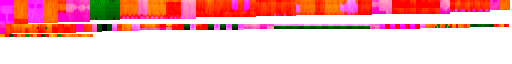
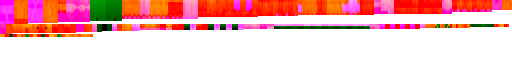
Reindeer antler planes: beam and palms drawn two texels thick, lighter tips, turned out 19 degrees as the deer's (the one-texel beam read wiry)

Changed region(s): [[0.1562, 0.0, 1.0, 0.3438]]

diff --git a/mods/animals/source/reindeer/reindeer.py b/mods/animals/source/reindeer/reindeer.py
@@ -157,46 +157,50 @@ ANTLER0 = (3.6, 71.4, 36.5)  # where the left antler's burr sits on the skull
 # on the beam; over the face the brow tine, on the left as the flat 'shovel', on the right a plain point
 # (most have one shovel). A texel is 2 units drawn (2 / K in the deer's space). The plane faces sideways,
 # turned out with the beam's sweep and leaning out as the beam did.
+# The beam and the palm two texels thick (Ronald, 11-05: one texel read wiry, a thin outline loop from
+# the side), the points and tines one or two.
 ANTLER_ART = {
-    "L": ["....#.#.#....",  # rows top down, columns back to front, in texels; B the burr (its lower row in the skull)
-          "....#.#.#....",
-          "...######....",
-          "...##........",
-          "..##.........",
-          ".##..........",
-          ".#...........",
-          ".#...........",
-          ".#...........",
-          ".##..........",
-          "..#..........",
-          "..#####......",  # the bez tine, forward off the beam
-          "..##.........",
-          "...##.....##.",  # the shovel over the face
-          "....##....##.",
-          ".....######..",  # the beam's root and the brow tine
-          ".......BB.##.",
-          ".......BB...."],
-    "R": ["....#.#.#....",
-          "....#.#.#....",
-          "...######....",
-          "...##........",
-          "..##.........",
-          ".##..........",
-          ".#...........",
-          ".#...........",
-          ".#...........",
-          ".##..........",
-          "..#..........",
-          "..#####......",
-          "..##.........",
-          "...##........",
-          "....##.......",
-          ".....#####...",  # the plain brow point
-          ".......BB....",
-          ".......BB...."]}
+    "L": ["....#..#..#...",  # rows top down, columns back to front, in texels; B the burr (its lower row in the skull)
+          "....#..#..#...",
+          "...#########..",  # the palm
+          "..##########..",
+          ".####.........",
+          ".###..........",
+          "###...........",
+          "##............",
+          "##............",
+          "##............",
+          "###...........",
+          ".###..........",
+          ".#######......",  # the bez tine, forward off the beam
+          "..###.........",
+          "...###....##..",  # the shovel over the face
+          "....###...##..",
+          ".....######...",  # the beam's root and the brow tine
+          ".......BB.##..",
+          ".......BB....."],
+    "R": ["....#..#..#...",
+          "....#..#..#...",
+          "...#########..",
+          "..##########..",
+          ".####.........",
+          ".###..........",
+          "###...........",
+          "##............",
+          "##............",
+          "##............",
+          "###...........",
+          ".###..........",
+          ".#######......",
+          "..###.........",
+          "...###........",
+          "....###.......",
+          ".....#####....",  # the plain brow point
+          ".......BB.....",
+          ".......BB....."]}
 ANTLER_T = 2.0 / K  # a texel, in the deer's space
 ANTLER_Y0, ANTLER_Z0 = -1.4, -14.3  # the drawing's bottom and back edge from the burr's pivot, in the deer's space
-ANTLER_TURN = (0, 15, -20)  # the left plane's turn (rx, ry, rz) about the pivot; the right's mirrored
+ANTLER_TURN = (0, 19, -20)  # the left plane's turn (rx, ry, rz) about the pivot; the right's mirrored
 
 
 def antler(side):
@@ -409,7 +413,7 @@ def antler_texels(e, p):
     rows, cols = len(art), len(art[0])
     get = lambda rr, cc: art[rr][cc] if 0 <= rr < rows and 0 <= cc < cols else "."  # noqa: E731
     k = np.array([[get(rr, cc) for rr, cc in zip(R_, C_)] for R_, C_ in zip(r, c)])
-    tip = np.array([[get(rr, cc) == "#" and get(rr - 1, cc) == "." and rr <= 2 for rr, cc in zip(R_, C_)] for R_, C_ in zip(r, c)])
+    tip = np.array([[get(rr, cc) == "#" and get(rr - 1, cc) == "." and rr <= 1 for rr, cc in zip(R_, C_)] for R_, C_ in zip(r, c)])
     return k, tip
 
 
@@ -486,10 +490,10 @@ def paint_face(e, face, boxes):
     img = np.dstack([np.clip(np.round(col), 0, 255), np.full((h, w), 255)]).astype(np.uint8)
     if e["cut"]:
         img[..., 3] = np.where(cut_mask(e, p), 255, 0)
-    if e["cut"] == "antler":  # bone; the burr and the points' tips a shade darker
+    if e["cut"] == "antler":  # bone; the burr a shade darker, the points' tips lighter
         k, tip = antler_texels(e, p)
-        dark = (k == "B") | tip
-        img[dark, :3] = (img[dark, :3] * 0.8).astype(np.uint8)
+        img[k == "B", :3] = (img[k == "B", :3] * 0.8).astype(np.uint8)
+        img[tip, :3] = np.clip(img[tip, :3] * 1.15, 0, 255).astype(np.uint8)
     if e["name"] == "skull" and face in ("east", "west"):
         s = 1 if face == "east" else -1
         stamp_eyes(img, [eye_center(s)], eye_style(s))
